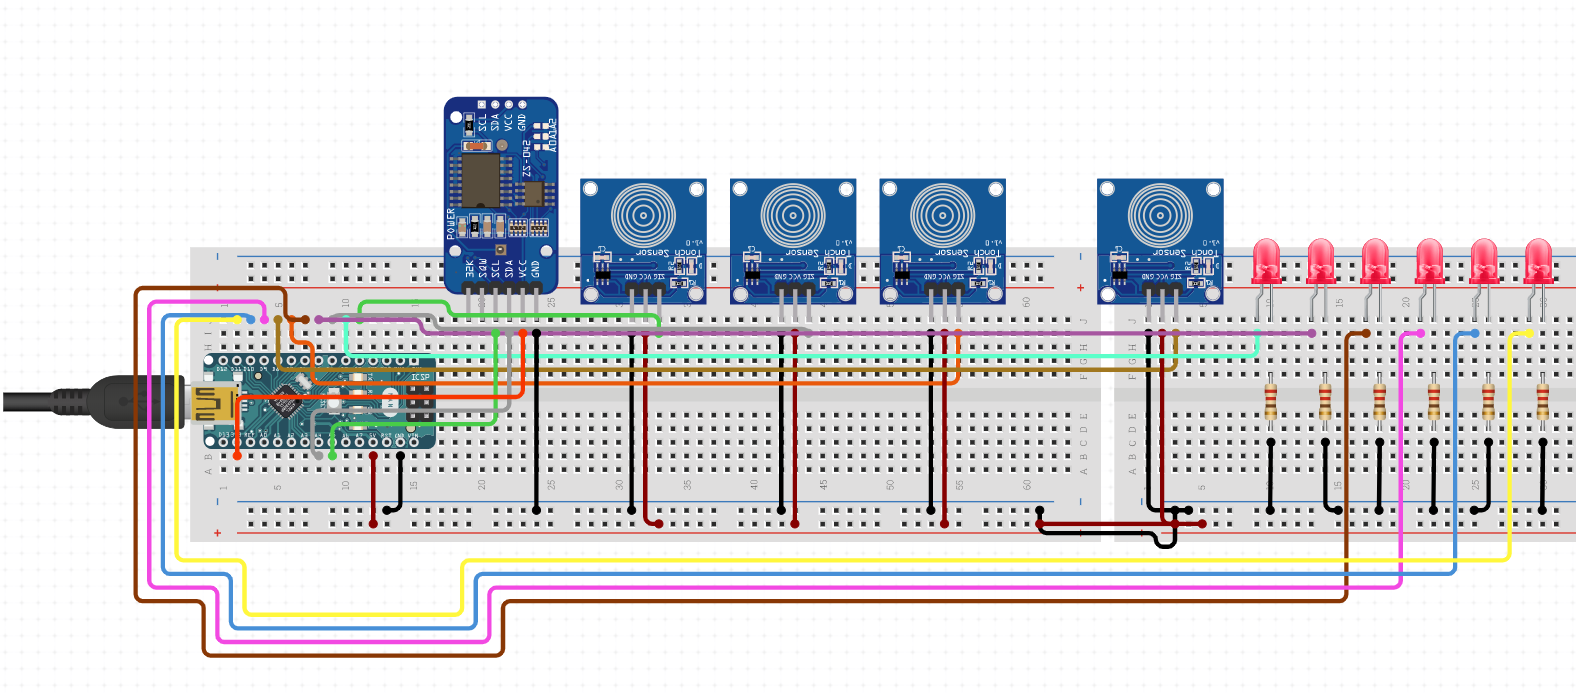
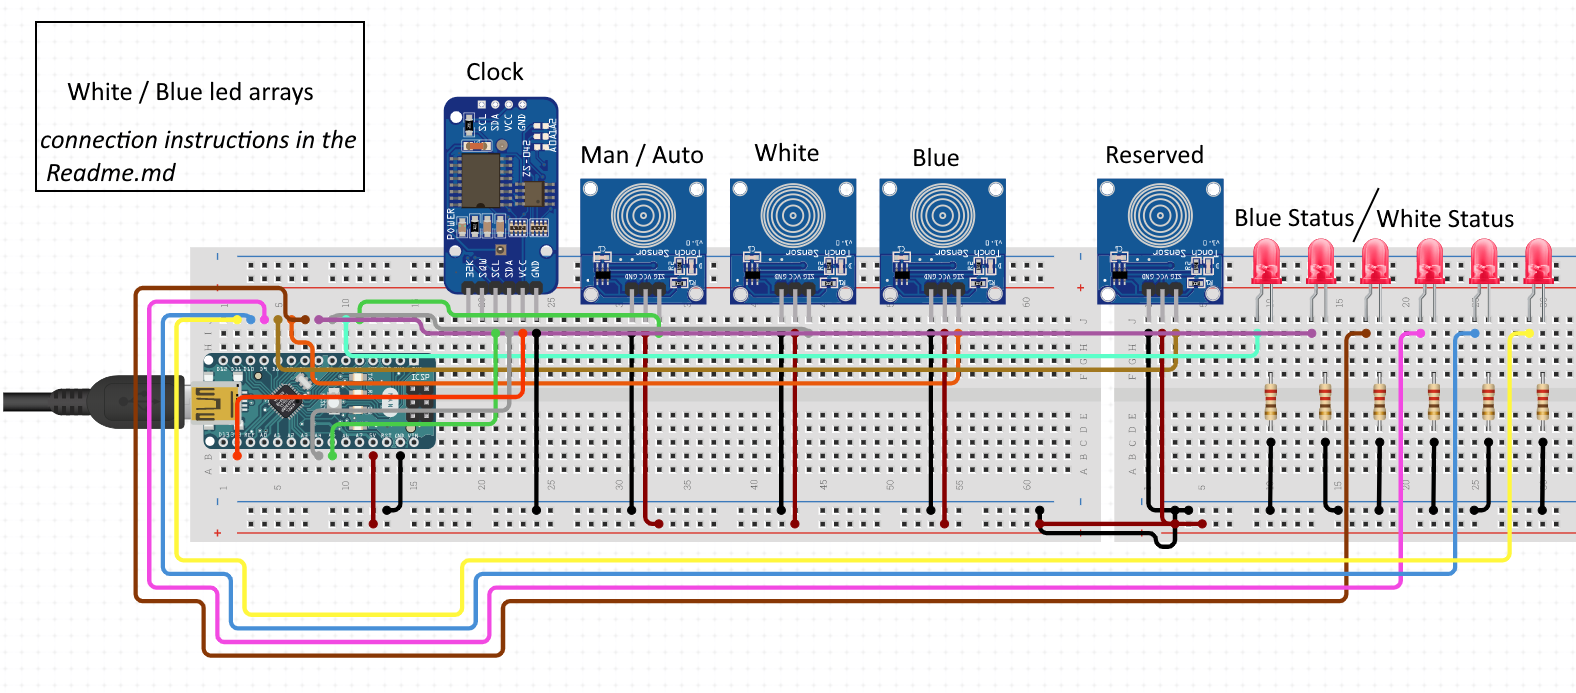
Added manual WIP

diff --git a/README.md b/README.md
@@ -11,6 +11,15 @@ The idea is to have a continuous system that simulates the sun increasing / decr
   <img src="./images/brand_and_model.jpg">
 </p>
 
+# User Manual
+
+The aquarium has two working modes:
+
+* Manual
+* Automatic
+
+In Manual mode 
+
 # Materials
 
 I am including links to the place were I bought them but I'm no way affiliated with them. It is a way to ensure that you have the same device I used.
@@ -20,3 +29,8 @@ I am including links to the place were I bought them but I'm no way affiliated w
 * [TTP223 Capacitive touch key](https://www.aliexpress.com/item/32815466969.html?spm=a2g0s.9042311.0.0.27424c4dvkudii)
 * [Red leds](https://www.aliexpress.com/item/32862878599.html?spm=2114.12010612.8148356.1.116019a6mAhl0N)
 * [1K Resistor](https://www.aliexpress.com/item/33029770547.html?spm=a2g0s.9042311.0.0.27424c4dvkudii)
+
+# Electrical Diagram
+
+
+
